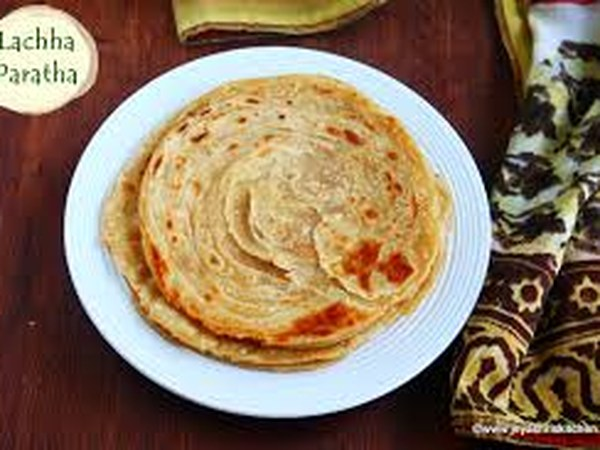
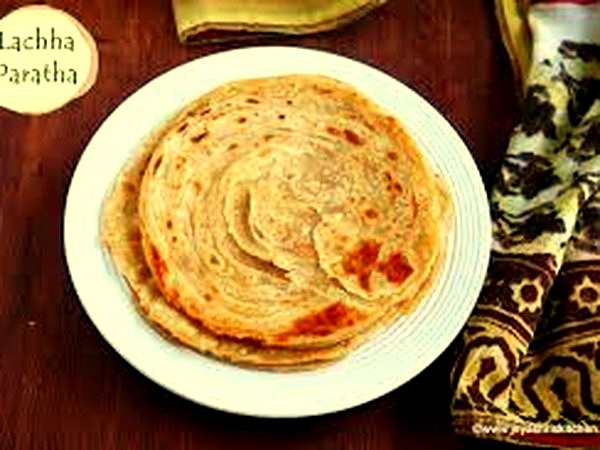
Remove Lacha Paratha p2/p3, keep only Special Lacha Paratha p4 with distinct warm-toned image

diff --git a/database/seeders/MenuItemSeeder.php b/database/seeders/MenuItemSeeder.php
@@ -17,9 +17,7 @@ class MenuItemSeeder extends Seeder
         $items = [
             // Parathas
             ['p1', 'Plain Paratha',         'Classic desi ghee paratha — crispy outside, soft inside.',                                 90,  'Parathas', "\u{1F959}", "{$img}p1.jpg", 1],
-            ['p2', 'Lacha Paratha',         'Multi-layered flaky paratha — each bite reveals another golden crispy layer.',            90,  'Parathas', "\u{1F959}", "{$img}p2.jpg", 2],
-            ['p3', 'Lacha Paratha (Large)', 'Larger size of our signature multi-layered flaky paratha.',                                130, 'Parathas', "\u{1F959}", "{$img}p2.jpg", 3],
-            ['p4', 'Special Lacha Paratha', 'Our signature — extra crispy golden layers with a rich desi ghee finish.',                 180, 'Parathas', "\u{1F959}", "{$img}p2.jpg", 4],
+            ['p4', 'Special Lacha Paratha', 'Our signature — extra crispy golden layers with a rich desi ghee finish.',                 180, 'Parathas', "\u{1F959}", "{$img}p4.jpg", 2],
             ['p5', 'Cheese Paratha',        'Melted cheese stuffed inside golden crispy layers — stretchy, gooey, delicious.',          130, 'Parathas', "\u{1F9C0}", "{$img}p5.jpg", 5],
             ['p6', 'Aloo Paratha',          'Spiced mashed potato filling inside a crispy paratha — a desi classic done right.',        90,  'Parathas', "\u{1F954}", "{$img}p6.jpg", 6],
             ['p7', 'Anda Paratha',          'Fresh egg cooked and folded inside a hot crispy paratha — wholesome and filling.',         100, 'Parathas', "\u{1F373}", "{$img}p7.jpg", 7],
@@ -52,7 +50,7 @@ class MenuItemSeeder extends Seeder
             );
         }
 
-        // Hard-delete Lassi items in case they still exist
-        MenuItem::whereIn('item_id', ['d4', 'd5', 'd6'])->delete();
+        // Hard-delete removed items
+        MenuItem::whereIn('item_id', ['d4', 'd5', 'd6', 'p2', 'p3'])->delete();
     }
 }
